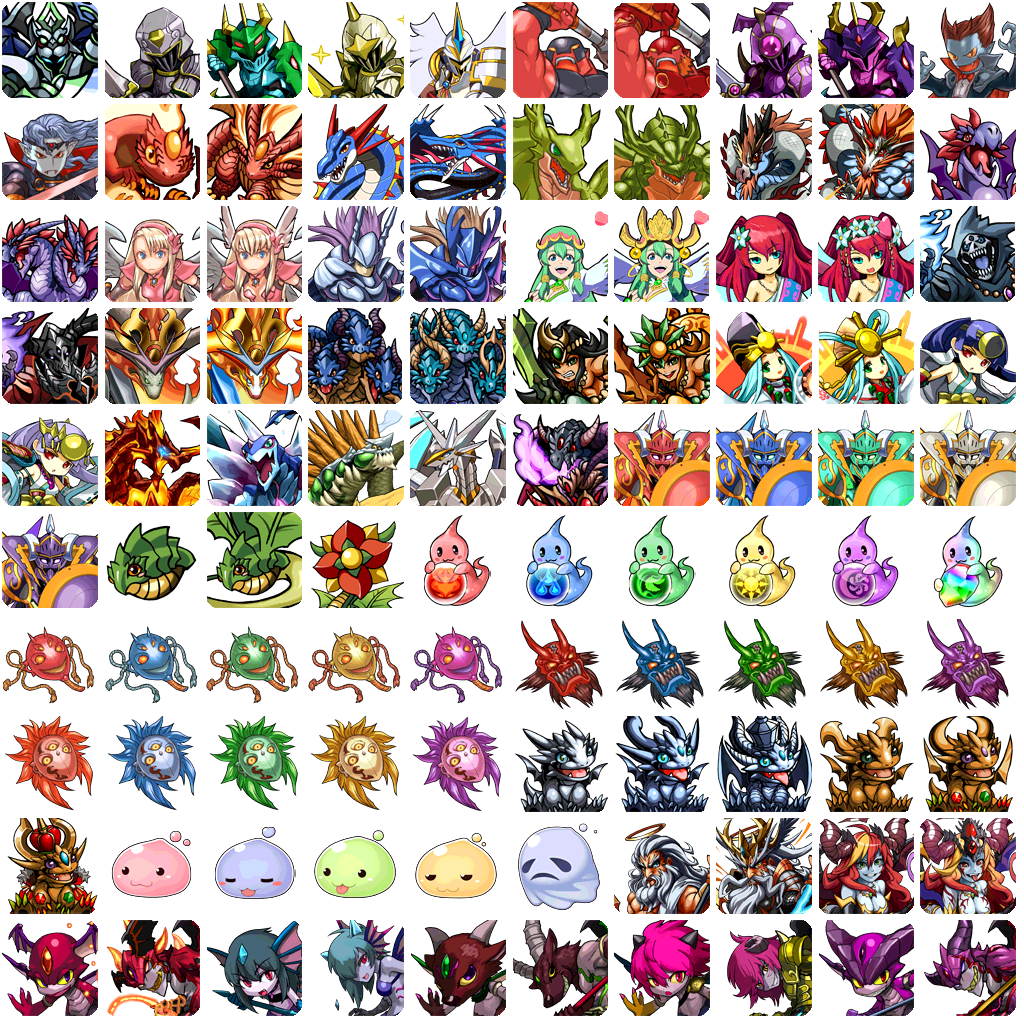
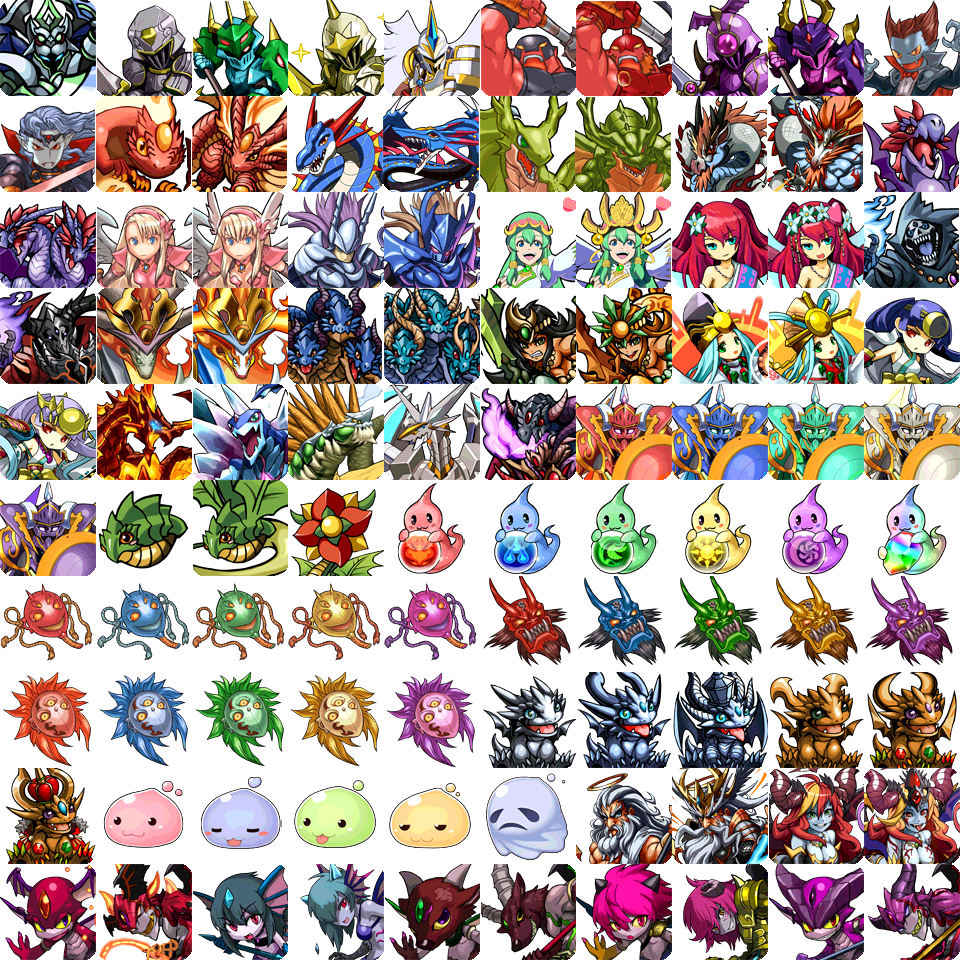
d

diff --git a/PAD Search/MainPage.xaml b/PAD Search/MainPage.xaml
@@ -4,55 +4,51 @@
              x:Class="PAD_Search.MainPage"
              xmlns:src="clr-namespace:PAD_Search.ViewModels">
 
-    <ScrollView>
-        <StackLayout>
-            <Image x:Name="test"/>
-
-            <Grid x:Name="grid"
-              RowSpacing="10"
-              ColumnSpacing="10"
-              ColumnDefinitions="75,75,75,75,75"
-              Padding="12,20">
+    <AbsoluteLayout>
+        <!--
+        <Image Source="{src:ImageResource PAD_Search.Images.dragon-totem.png}" 
+               Opacity="0.2"
+               Aspect="AspectFit"
+               AbsoluteLayout.LayoutBounds="0.5,0,1.5,1"
+               AbsoluteLayout.LayoutFlags="All"/>
+        -->
+        <ScrollView AbsoluteLayout.LayoutBounds="0,0,1,1" AbsoluteLayout.LayoutFlags="All">
+            <StackLayout>
+                <Grid x:Name="grid"
+                    HorizontalOptions="Center"
+                    RowSpacing="15"
+                    ColumnSpacing="15"
+                    ColumnDefinitions="60,60,60,60,60"
+                    Padding="0,20">
             <!-- -->
-            <Frame WidthRequest="75" HeightRequest="75" Padding="0" Grid.Column="0" Grid.Row="0" CornerRadius="10">
-                <AbsoluteLayout Background="#686868">
-                    <Image Source="{src:ImageResource PAD_Search.Images.CARDS_001.PNG}"
-                           AbsoluteLayout.LayoutBounds="0.555555555,0.66666666,10,10"
-                           AbsoluteLayout.LayoutFlags="All"
-                           Aspect="Fill"/>
-
-                    <Image Source="{src:ImageResource PAD_Search.Images.CARDFRAME2.png}"
-                           AbsoluteLayout.LayoutBounds="0.166666666,0,7,4"
-                           AbsoluteLayout.LayoutFlags="All"
-                           Aspect="Fill"/>
-
-                    <Image Source="{src:ImageResource PAD_Search.Images.CARDFRAME2.png}"
-                           AbsoluteLayout.LayoutBounds="0.666666,0.333333,7,4"
-                           AbsoluteLayout.LayoutFlags="All"
-                           Aspect="Fill"/>
-
-                    <Image Source="{src:ImageResource PAD_Search.Images.CARDFRAME2.png}"
-                           AbsoluteLayout.LayoutBounds="0.5,0.666666,7,4"
-                           AbsoluteLayout.LayoutFlags="All"
-                           Aspect="Fill"/>
-                </AbsoluteLayout>
-                    <Frame.GestureRecognizers>
-                        <TapGestureRecognizer Command="{Binding TappedCommand}"/>
-                    </Frame.GestureRecognizers>
-            </Frame>
-
-            <!--
-            <Frame WidthRequest="80" HeightRequest="80" Padding="0" Grid.Column="1" Grid.Row="0" CornerRadius="10">
-                <AbsoluteLayout Background="#505050">
-                    <Image Source="{src:ImageResource PAD_Search.Images.CARDS_001.PNG}"
-                           AbsoluteLayout.LayoutBounds="0.555555555,0.777777777,10,10"
-                           AbsoluteLayout.LayoutFlags="All"
-                           Aspect="Fill"/>
-                </AbsoluteLayout>
-            </Frame>-->
-            <!-- -->
-            </Grid>
-        </StackLayout>
-    </ScrollView>
+                <Frame WidthRequest="60" HeightRequest="60" Padding="0" Grid.Column="0" Grid.Row="0" CornerRadius="10">
+                    <AbsoluteLayout Background="#686868">
+                        <Image Source="{src:ImageResource PAD_Search.Images.CARDS_001.PNG}"
+                            AbsoluteLayout.LayoutBounds="0.555555555,0.66666666,10,10"
+                            AbsoluteLayout.LayoutFlags="All"
+                            Aspect="Fill"/>
+    
+                        <Image Source="{src:ImageResource PAD_Search.Images.CARDFRAME2.png}"
+                            AbsoluteLayout.LayoutBounds="0.166666666,0,7,4"
+                            AbsoluteLayout.LayoutFlags="All"
+                            Aspect="Fill"/>
+    
+                        <Image Source="{src:ImageResource PAD_Search.Images.CARDFRAME2.png}"
+                            AbsoluteLayout.LayoutBounds="0.666666,0.333333,7,4"
+                            AbsoluteLayout.LayoutFlags="All"
+                            Aspect="Fill"/>
+    
+                        <Image Source="{src:ImageResource PAD_Search.Images.CARDFRAME2.png}"
+                            AbsoluteLayout.LayoutBounds="0.5,0.666666,7,4"
+                            AbsoluteLayout.LayoutFlags="All"
+                            Aspect="Fill"/>
+                    </AbsoluteLayout>
+                </Frame>
+    
+                </Grid>
+            </StackLayout>
+        </ScrollView>
+            
+    </AbsoluteLayout>
 
 </ContentPage>

diff --git a/PAD Search/MainPage.xaml.cs b/PAD Search/MainPage.xaml.cs
@@ -1,4 +1,5 @@
-using PAD_Search.Models;
+using FFImageLoading.Forms;
+using PAD_Search.Models;
 using System;
 using System.Collections.Generic;
 using System.ComponentModel;
@@ -15,8 +16,12 @@ namespace PAD_Search
     public partial class MainPage : ContentPage
     {
 
-        private int numCols = 5;
-        private int gridSize = 75;
+        private static int numCols = 5;
+        private static int gridSize = 60;
+        //private List<Frame> frames = new List<Frame>();
+        //private List<bool> imageLoaded = new List<bool>();
+        private static int totalMonsters = 600;
+        private static int totalRows = (int)Math.Ceiling((double)totalMonsters / numCols);
 
         public MainPage()
         {
@@ -24,76 +29,100 @@ namespace PAD_Search
             InitializeComponent();
             LoadCards();
 
-            for (var i = 0; i < 100; i++)
+            for (var i = 0; i < totalMonsters; i++)
             //for (var i = 0; i < 0; i++)
             {
                 var monster = monsters[i];
-                //Label test = new Label()
-                //{
-                //Text = "" + monster.Name + " " + monster.Id,
-                //BackgroundColor = Color.Red
-                //};
-                //grid.Children.Add(test);
-
-                //if (i % numCols == 0)
-                //grid.RowDefinitions.Add(new RowDefinition { Height = 70 });
 
                 Frame frame = new Frame()
                 {
                     WidthRequest = gridSize,
                     HeightRequest = gridSize,
                     Padding = 0,
-                    CornerRadius = 10
+                    CornerRadius = 4
                 };
                 var gridY = (int)Math.Floor(i / (double)numCols);
                 var gridX = i % numCols;
                 Grid.SetRow(frame, gridY);
                 Grid.SetColumn(frame, gridX);
 
-                var imageY = (int)Math.Floor(i / (double)imageCols);
+                frame.GestureRecognizers.Add(new TapGestureRecognizer
+                {
+                    Command = new Command(() => System.Diagnostics.Debug.WriteLine("ID " + monster.Id + ": " + gridY))
+                });
+
+
+                //if (i < 200)
+                //{
+                    
+
+                var imageY = (int)Math.Floor(i%100 / (double)imageCols);
                 var imageX = i % imageCols;
 
                 AbsoluteLayout crop = new AbsoluteLayout() { BackgroundColor = new Color(0.2667, 0.2667, 0.2667) };
-                Image image = new Image()
+                var imageFileName = imageFilePre + ("" + (int)(Math.Floor(i / 100.0) + 1)).PadLeft(3, '0') + ".PNG";
+                CachedImage image = new CachedImage()
                 {
-                    Aspect = Aspect.AspectFill
+                    Aspect = Aspect.AspectFill,
+                    Source = ImageSource.FromResource(imageFileName),
+                    DownsampleToViewSize = true,
+                    BitmapOptimizations = true,
+                    IsOpaque = true,
                 };
-                image.Source = ImageSource.FromResource("PAD_Search.Images.CARDS_001.PNG", typeof(MainPage).GetTypeInfo().Assembly);
-                AbsoluteLayout.SetLayoutBounds(image, new Rectangle(imageX / 9.0, imageY / 9.0, 10.0, 10.0));
+                AbsoluteLayout.SetLayoutBounds(image, new Rectangle(imageX / 9.0, imageY / 9.0, 10, 10));
                 AbsoluteLayout.SetLayoutFlags(image, AbsoluteLayoutFlags.All);
 
                 frame.Content = crop;
                 crop.Children.Add(image);
 
-                grid.Children.Add(frame);
 
                 if (i % numCols == 0)
                     grid.RowDefinitions.Add(new RowDefinition { Height = gridSize });
 
-                frame.GestureRecognizers.Add(new TapGestureRecognizer
-                {
-                    Command = new Command(() => System.Diagnostics.Debug.WriteLine("EFOIEJF"))
-                });
 
 
 
                 // Frame
+                var attrs = monster.Attrs;
+                for (var j = 0; j < attrs.Count; j++)
+                {
+                    var attr = attrs[j];
+                    CachedImage attrFrame = new CachedImage()
+                    {
+                        Aspect = Aspect.AspectFill,
+                        Source = ImageSource.FromResource("PAD_Search.Images.CARDFRAME2.png"),
+                        DownsampleToViewSize = true,
+                        BitmapOptimizations = true,
+                        IsOpaque = true
+                    };
+
+                    var frameImageX = attrs[j];
+                    var frameImageY = j;
+
+                    AbsoluteLayout.SetLayoutBounds(attrFrame, new Rectangle(frameImageX/6.0, frameImageY/3.0, 7, 4));
+                    AbsoluteLayout.SetLayoutFlags(attrFrame, AbsoluteLayoutFlags.All);
+
+                    crop.Children.Add(attrFrame);
+                //}
+                }
+
+                //frames.Add(frame);
+                //imageLoaded.Add(false);
+                grid.Children.Add(frame);
             }
         }
 
+
+
         private string jsonMonFileName = "PAD_Search.Data.mon_en.json";
         private string jsonSkillFileName = "PAD_Search.Data.skill_en.json";
-        private string imageFileName = "PAD_Search.Images.CARDS_"; // CARDS_001.png
+        private string imageFilePre = "PAD_Search.Images.CARDS_"; // CARDS_001.png
         private int imageCols = 10;
 
         private List<Monster> monsters = new List<Monster>();
         private List<Skill> skills = new List<Skill>();
         static List<T> ReadJsonFromFile<T>(string filePath)
         {
-            //string json = await File.ReadAllTextAsync(filePath);
-            //string json = File.ReadAllText(filePath);
-            //return JsonSerializer.Deserialize<List<Monster>>(json);
-
             var assembly = Assembly.GetExecutingAssembly();
             List<T> list = new List<T>();
 
@@ -116,9 +145,6 @@ namespace PAD_Search
             skills.RemoveAt(0);
             skills.RemoveAll(skill => skill.Name.Equals("無し"));
             skills.RemoveAll(skill => skill.Name.Equals(""));
-
-            //System.Diagnostics.Debug.WriteLine(monsterJson.Count);
-            //System.Diagnostics.Debug.WriteLine(skillJson.Count);
         }
     }
 }

diff --git a/PAD Search.Android/MainActivity.cs b/PAD Search.Android/MainActivity.cs
@@ -4,6 +4,7 @@ using Android.App;
 using Android.Content.PM;
 using Android.Runtime;
 using Android.OS;
+using FFImageLoading.Forms.Platform;
 
 namespace PAD_Search.Droid
 {
@@ -16,6 +17,8 @@ namespace PAD_Search.Droid
 
             Xamarin.Essentials.Platform.Init(this, savedInstanceState);
             global::Xamarin.Forms.Forms.Init(this, savedInstanceState);
+            FFImageLoading.Forms.Platform.CachedImageRenderer.Init(enableFastRenderer: true);
+            //CachedImageRenderer.InitImageViewHandler();
             LoadApplication(new App());
         }
         public override void OnRequestPermissionsResult(int requestCode, string[] permissions, [GeneratedEnum] Android.Content.PM.Permission[] grantResults)
